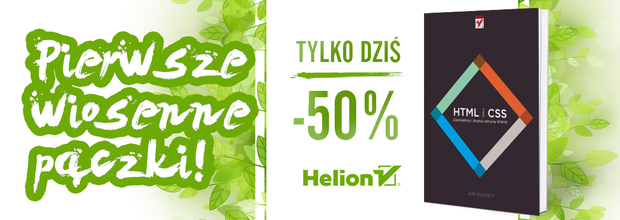
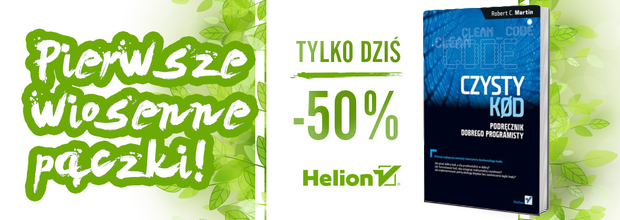
promotion update

Changed region(s): [[0.6742, 0.0, 0.8887, 0.9818]]

diff --git a/promocje/promotions.js b/promocje/promotions.js
@@ -1,7 +1,7 @@
 const promotion = {
-  start: new Date('2018-04-09'),
-  end: new Date('2018-04-14'),
-  number: '4728',
+  start: new Date('2018-04-13'),
+  end: new Date('2018-04-13'),
+  number: '4731',
   discount: '-50%',
   host: 'helion.pl',
   img: true,
@@ -10,7 +10,7 @@ const promotion = {
 const customMessage = '';
 const promotionURL = new URL(`http://${promotion.host}/page/9102Q/promocja/${promotion.number}`);
 
-let promotionAdText = `Na ${promotionURL.hostname} jest <a href="${promotionURL}" target="_blank">promocja</a> ${promotion.discount} na "Zaprojektuj i zbuduj witrynę WWW. Podręcznik Front End Developera".`;
+let promotionAdText = `Na ${promotionURL.hostname} jest <a href="${promotionURL}" target="_blank">promocja</a> ${promotion.discount} na "Wzorce projektowe. Elementy oprogramowania obiektowego wielokrotnego użytku".`;
 
 if (isPromotionActive()) {
   if (customMessage !== '') {
